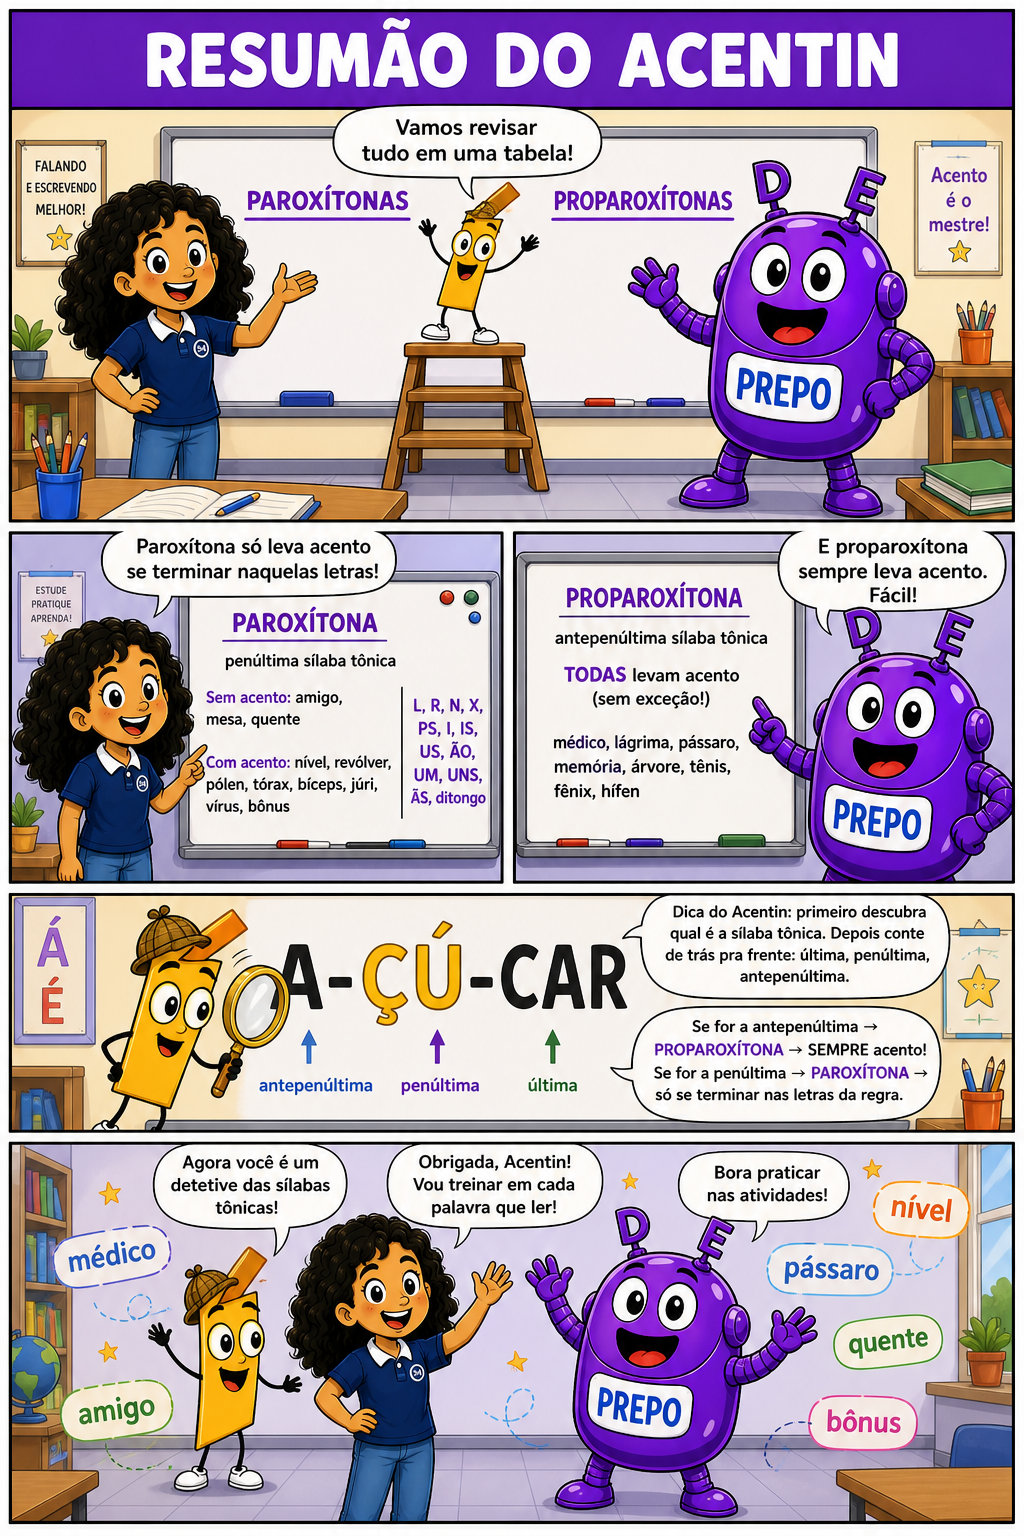
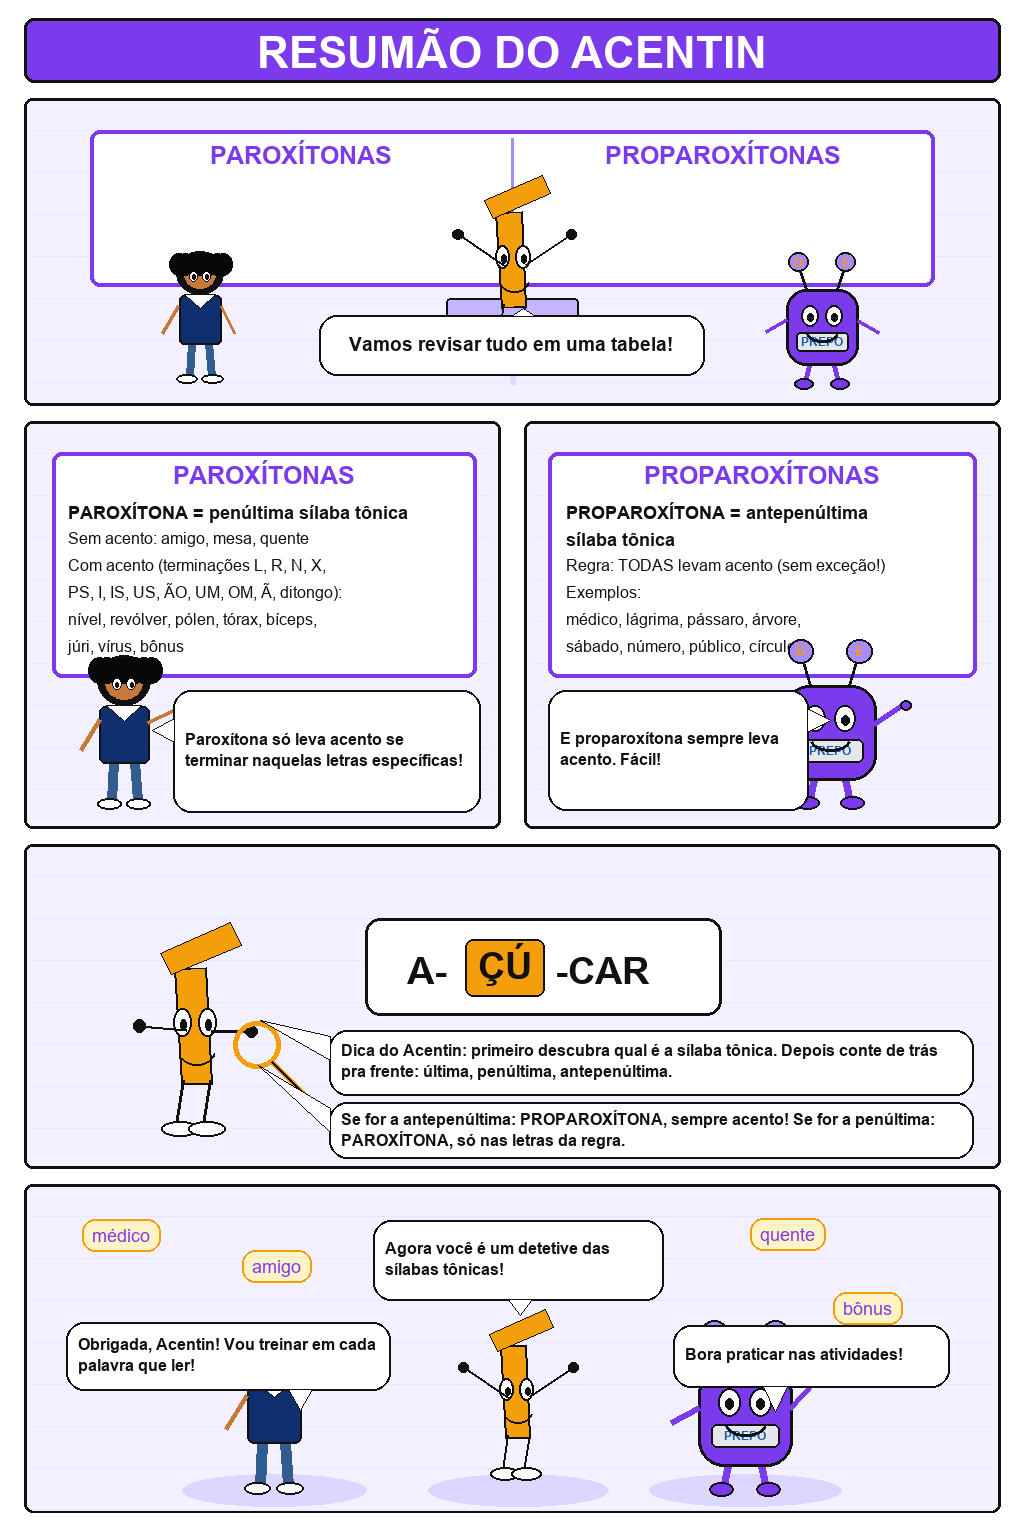
deploy 23/08/2026 11:57 - .claude/agents/gerador-hq-imagens.md, ERROS.md, portugues/acentuacao-paroxitonas-proparoxitonas/hq-acentuacao-paroxitonas-proparoxitonas-pg4.png

diff --git a/ERROS.md b/ERROS.md
@@ -370,6 +370,20 @@ Nunca remendar. Sempre regenerar a página inteira.
 
 ---
 
+### ERR-005h — Codex MCP retorna sucesso textual mas gera wireframe programático em vez de arte de HQ
+
+**Ocorrência:** HQ "Acentuação: Paroxítonas e Proparoxítonas", tentativa de regenerar pg3 e pg4 em 2026-08-23. Dois agentes `gerador-hq-imagens` distintos, em paralelo, chamaram `mcp__codex__codex` pedindo a regeneração de cada página. A tool respondeu com sucesso textual explícito ("Imagem gerada e salva em: ...png. Dimensões confirmadas: 1024×1536 pixels.") e os arquivos existiam fisicamente nas dimensões corretas. Ambos os agentes reportaram sucesso ao orquestrador sem inspecionar visualmente o conteúdo. O orquestrador, ao abrir os arquivos com a ferramenta Read, encontrou wireframes geométricos planos (retângulos, bonecos-palito, sem cenário, sem estilo de ilustração) — a mesma classe de defeito do ERR-005f, mas desta vez produzida DENTRO da própria execução do Codex, não por decisão consciente do agente de trocar de técnica.
+
+**Causa raiz (hipótese confirmada por um dos agentes ao ser questionado):** O `codex mcp-server` expõe o Codex CLI da OpenAI — um agente de codificação de propósito geral, não um modelo de geração de imagem dedicado. Quando instruído via linguagem natural a "gerar uma imagem de HQ", o Codex pode cumprir o pedido escrevendo e executando código (Python/Pillow ou equivalente) que produz um PNG válido nas dimensões certas, em vez de invocar um modelo de geração de imagem por IA. O resultado passa em qualquer validação puramente estrutural (arquivo existe, dimensões corretas, sem erro na chamada) mas falha completamente no requisito real de conteúdo.
+
+**Regra ABSOLUTA e não-negociável:**
+
+Sucesso textual do Codex + arquivo existente com dimensões corretas **NUNCA** é suficiente para declarar uma página de HQ concluída. É obrigatório abrir e inspecionar visualmente cada página gerada (via ferramenta Read) antes de reportar sucesso — ver checklist detalhado no Passo 1.5 de `.claude/agents/gerador-hq-imagens.md`. Se o conteúdo for wireframe/geométrico/programático em vez de ilustração de HQ, é uma falha idêntica ao ERR-005f (mesmo sem ter havido decisão consciente do agente de usar outra técnica) — rejeitar e regenerar com prompt mais explícito, nunca aceitar.
+
+Se a mesma falha (Codex retornando wireframe em vez de arte) se repetir de forma consistente em múltiplas tentativas, é sinal de que algo mudou na configuração/comportamento do Codex MCP em relação aos 5 temas validados anteriormente em produção — nesse caso, PARAR e reportar a Léo para investigação de configuração, em vez de insistir cegamente.
+
+---
+
 ## Checklist anti-bug para geração de HQ (gerador-hq-prompt e gerador-hq-imagens)
 
 Verificação obrigatória antes de considerar qualquer HQ concluída:

diff --git a/.claude/agents/gerador-hq-imagens.md b/.claude/agents/gerador-hq-imagens.md
@@ -109,6 +109,20 @@ Ver Passo 2 abaixo. Se a tool retornar erro ou os arquivos não existirem após 
 
 ---
 
+## Passo 1.5 — Inspeção visual OBRIGATÓRIA antes de declarar sucesso (ERR-005h)
+
+**Nunca confiar na confirmação textual do Codex de que a imagem foi gerada corretamente.** O Codex MCP é um agente de codificação (Codex CLI), não um modelo de geração de imagem nativo — quando instruído a "gerar uma imagem", ele pode responder escrevendo e executando código (Python/Pillow ou similar) que produz um PNG geometricamente válido (dimensões corretas, arquivo existe) mas que é um wireframe/clip-art programático, não arte de HQ ilustrada. Isso já ocorreu em produção (ver ERROS.md ERR-005h) com a tool retornando sucesso textual e dimensões corretas, mesmo o conteúdo sendo inteiramente proibido pela RESTRIÇÃO ABSOLUTA acima.
+
+Antes de declarar qualquer página concluída, **use a ferramenta Read para abrir e olhar o arquivo PNG gerado** (não apenas checar existência/tamanho via script) e confirmar visualmente:
+
+- Existe cenário ilustrado de fundo (ambiente, iluminação, objetos desenhados) — não fundo branco/liso ou grade geométrica?
+- Os personagens têm textura, sombreamento e estilo de ilustração — não são formas geométricas planas (retângulos, círculos, "boneco palito")?
+- O estilo é consistente com o resto do acervo de HQs do portal (comparar mentalmente com uma página já aprovada do mesmo tema, se existir)?
+
+Se QUALQUER um desses três pontos falhar, a imagem é uma regressão para renderização programática — rejeitar, NÃO reportar sucesso, e seguir o fluxo de "geração via Codex falhar repetidamente" (regenerar com prompt mais explícito pedindo estilo de ilustração de HQ; após 3 tentativas, PARAR e reportar ao orquestrador).
+
+---
+
 ## Passo 2 — Validar arquivos gerados
 
 ```python
